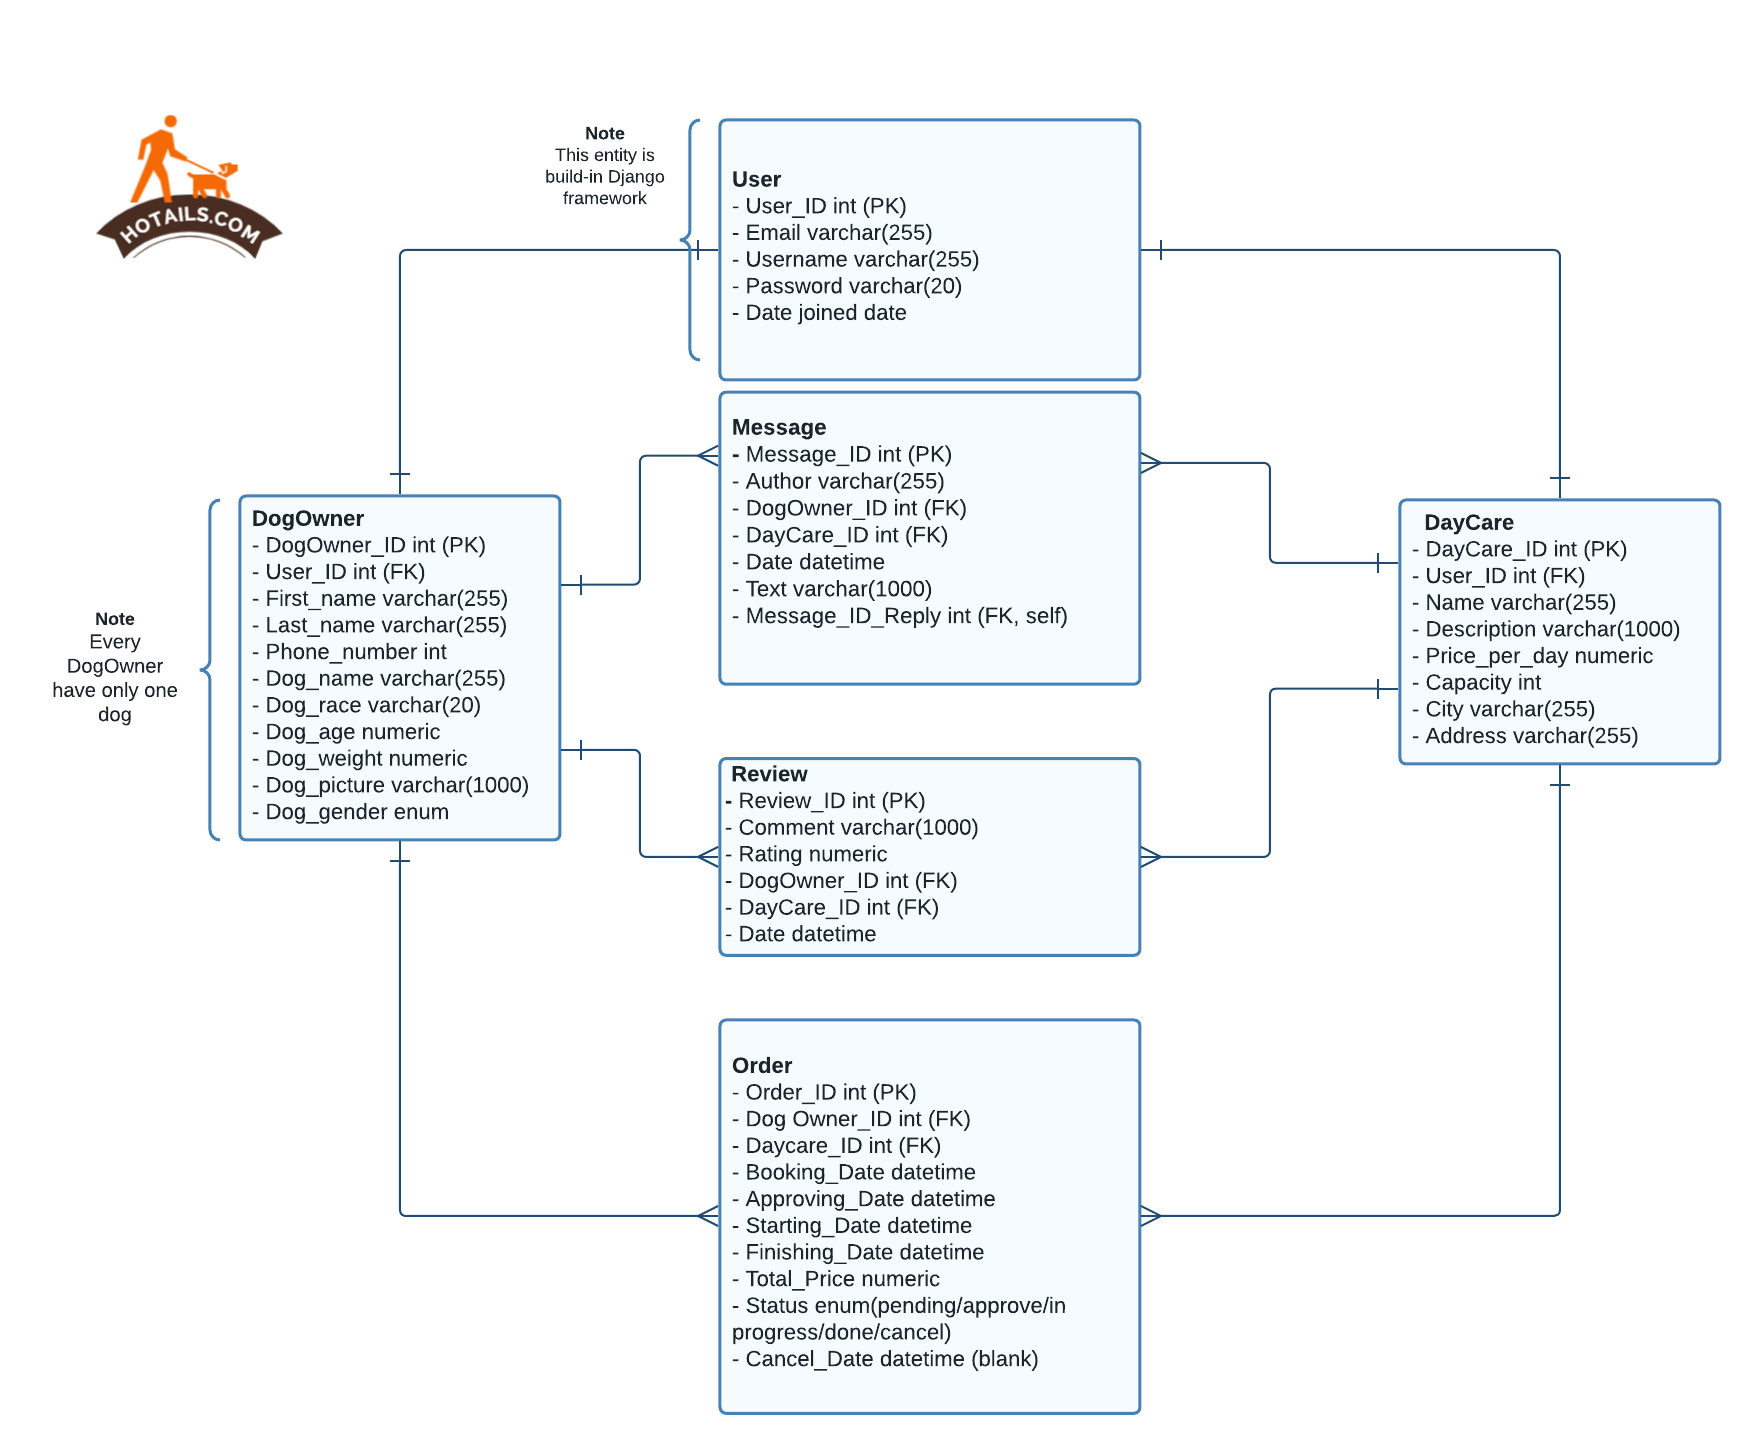
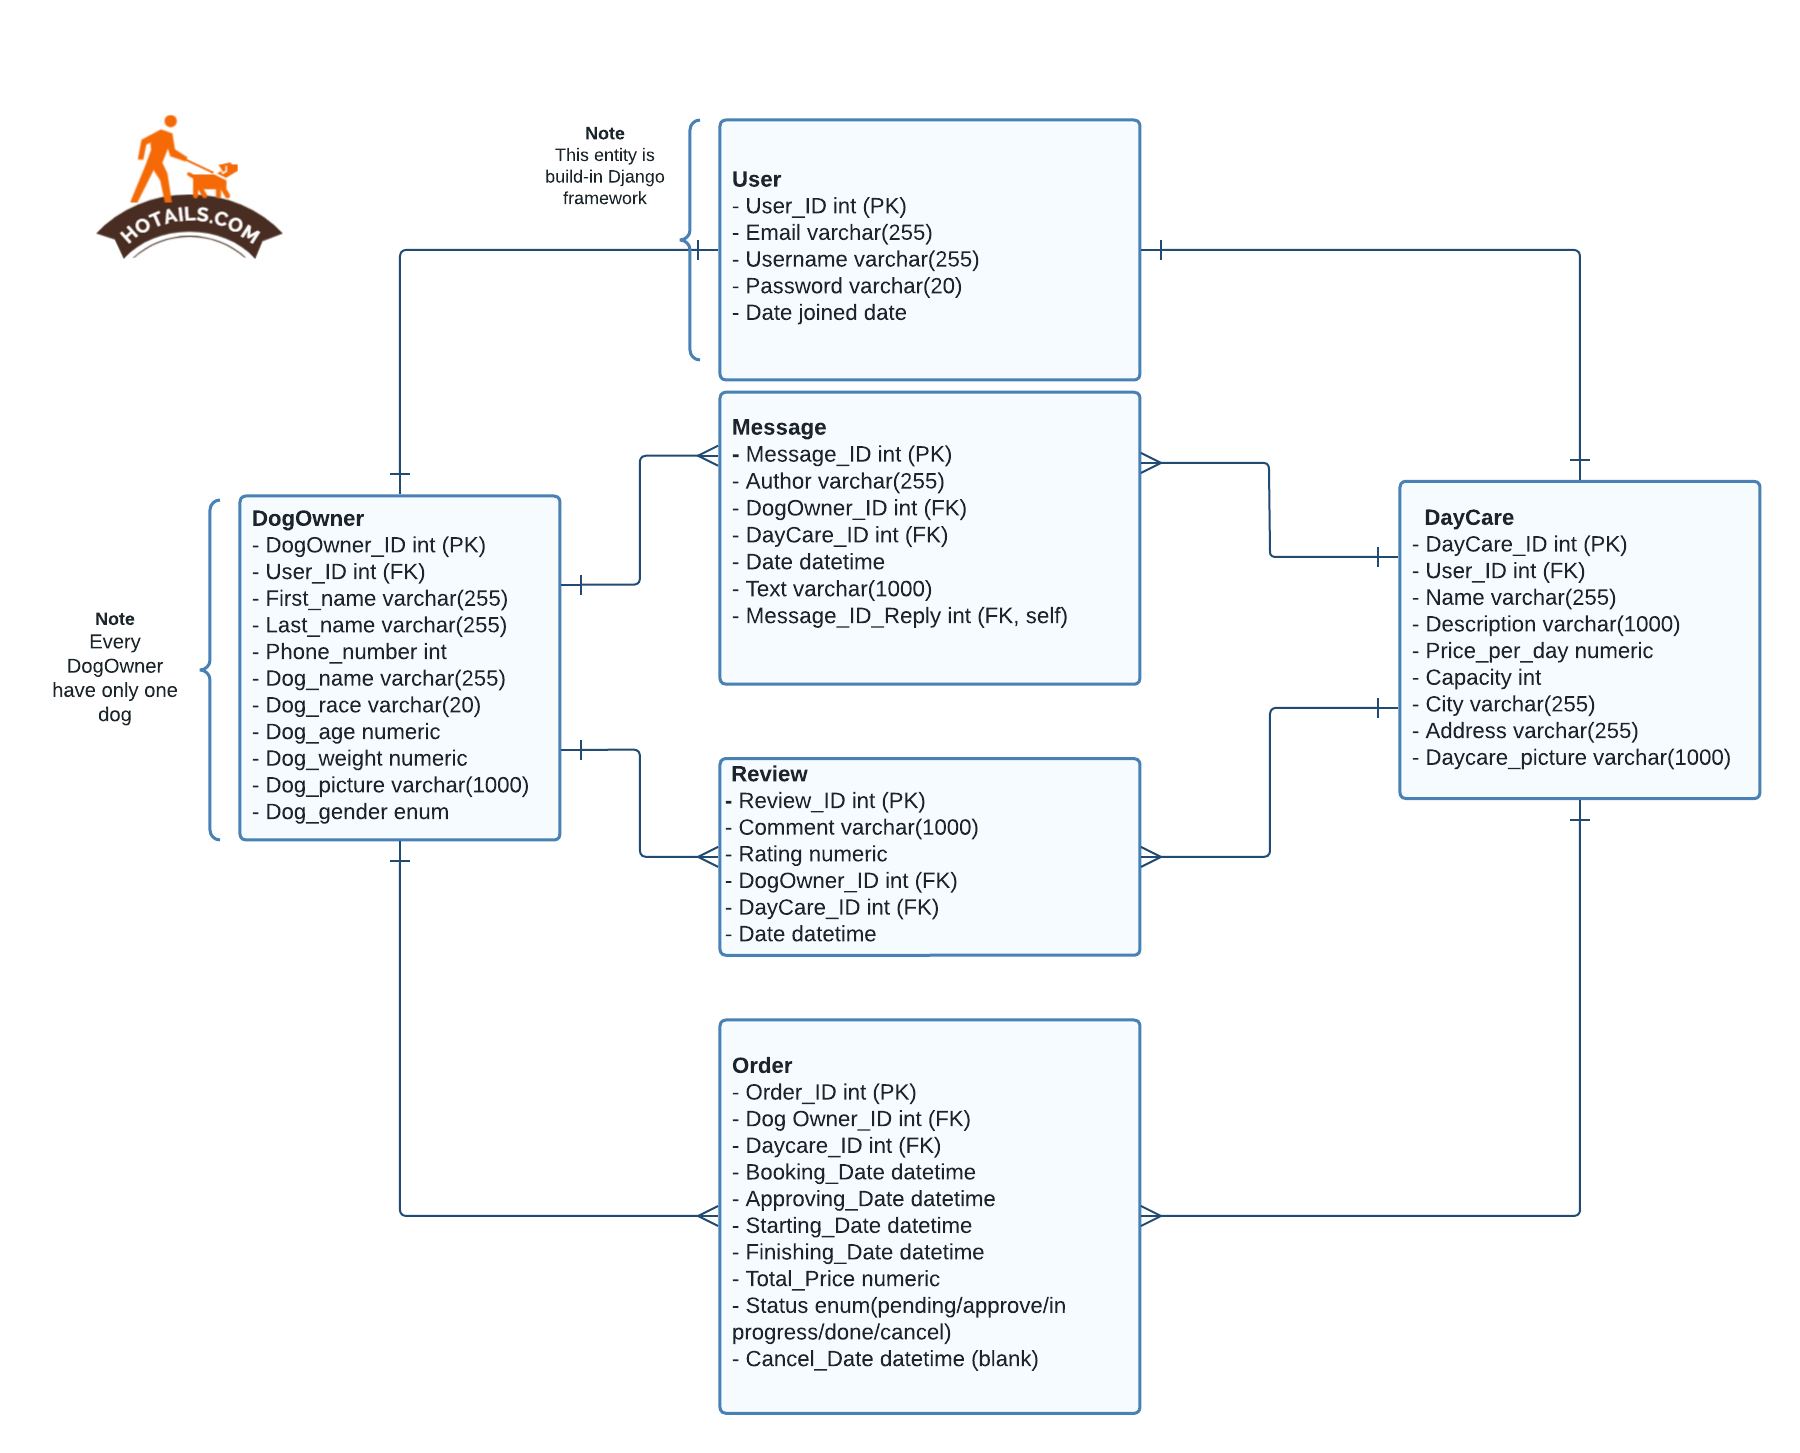
Updating the ERD following changes in daycare model
Adding the field Daycare_picture in DayCare table

diff --git a/review/migrations/0001_initial.py b/review/migrations/0001_initial.py
@@ -1,4 +1,4 @@
-# Generated by Django 4.0.3 on 2022-04-11 07:33
+# Generated by Django 4.0.3 on 2022-03-29 21:22
 
 import django.core.validators
 from django.db import migrations, models
@@ -6,12 +6,11 @@ import django.db.models.deletion
 
 
 class Migration(migrations.Migration):
-
     initial = True
 
     dependencies = [
+        ('dogowner', '0001_initial'),
         ('daycare', '0001_initial'),
-        ('dogowner', '0002_test_data'),
     ]
 
     operations = [
@@ -23,10 +22,9 @@ class Migration(migrations.Migration):
                 ('rating', models.IntegerField(validators=[django.core.validators.MinValueValidator(0),
                                                            django.core.validators.MaxValueValidator(5)])),
                 ('creation_date', models.DateTimeField(auto_now_add=True)),
-                ('daycare_id', models.ForeignKey(on_delete=django.db.models.deletion.CASCADE,
-                                                 to='daycare.daycare')),
-                ('dogowner_id', models.ForeignKey(null=True, on_delete=django.db.models.deletion.SET_NULL,
-                                                  to='dogowner.dogowner')),
+                ('daycare_id', models.ForeignKey(on_delete=django.db.models.deletion.CASCADE, to='daycare.daycare')),
+                ('dogowner_id',
+                 models.ForeignKey(null=True, on_delete=django.db.models.deletion.SET_NULL, to='dogowner.dogowner')),
             ],
         ),
     ]

diff --git a/daycare/models.py b/daycare/models.py
@@ -21,7 +21,7 @@ class DayCare(models.Model):
     address = models.CharField(max_length=50, blank=True, validators=[MaxLengthValidator])
 
     def __str__(self):
-        return f'{self.name} name'
+        return f'Daycare name: {self.name}'
 
     @staticmethod
     def get_daycare_by_id(daycare_id):
